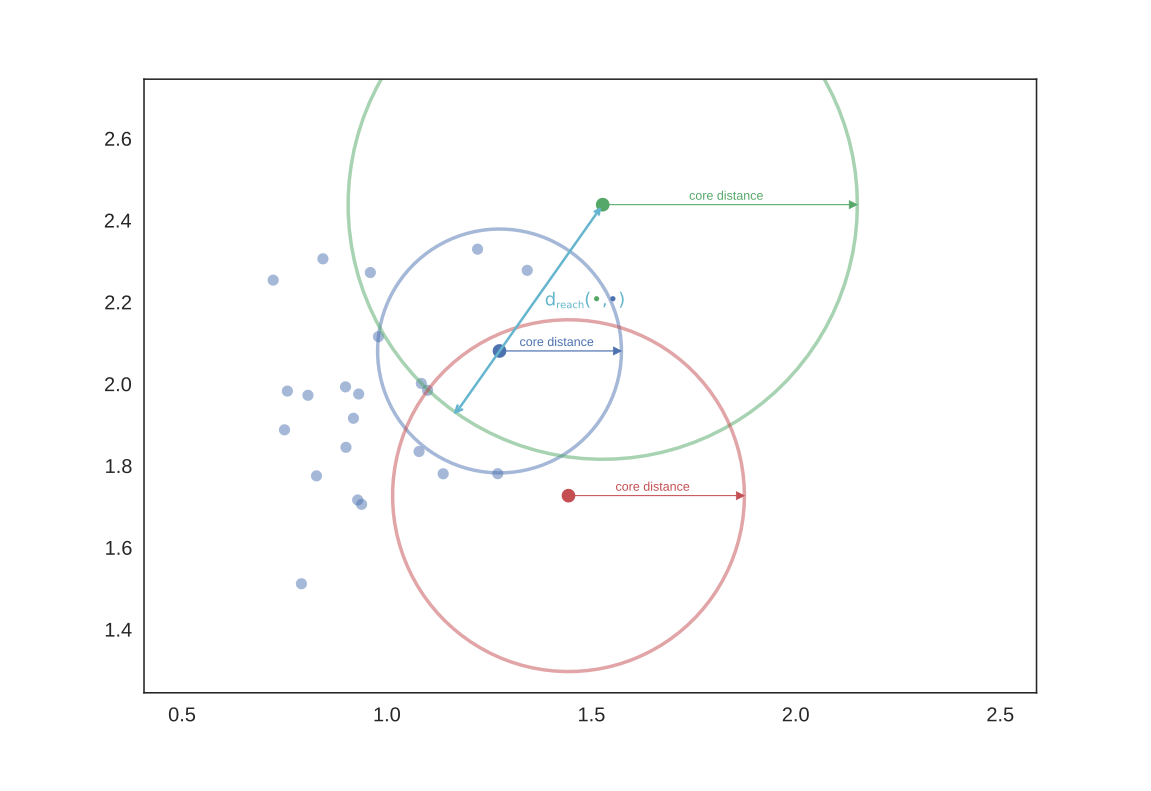
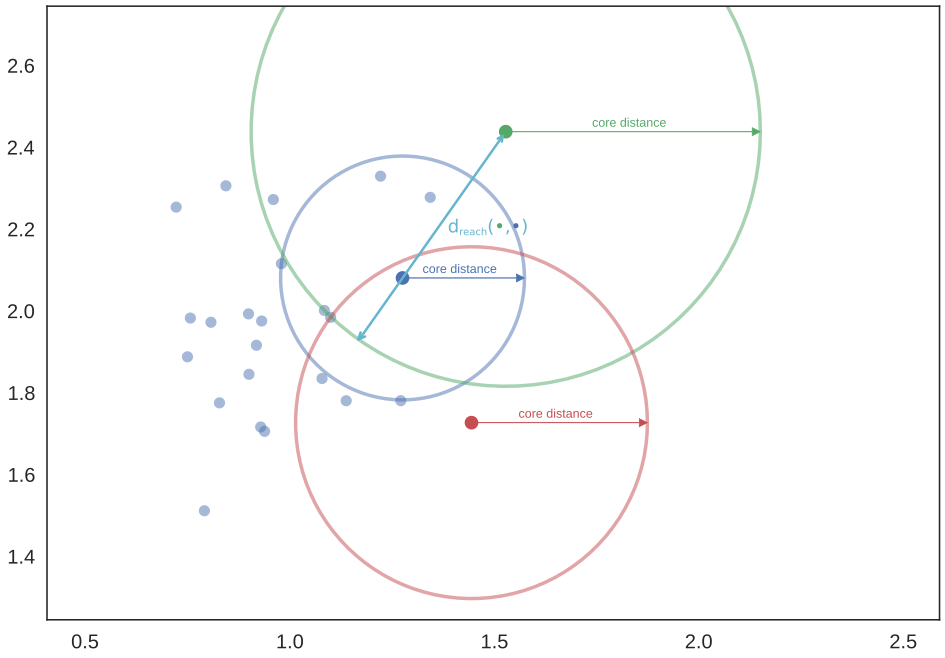
Reprise mise en page

diff --git a/weeks/21-05_28-05.tex b/weeks/21-05_28-05.tex
@@ -35,13 +35,13 @@
     \begin{block}{Principe}
         \begin{itemize}
             \item Méthode de référence de la classification à densité (détection de clusters en se basant sur la concentration de points);
-            \item Se base sur deux paramètres : $\epsilon$ et $n_{min}$ qui caractérisent respectivement la distance maximale pour que deux points soient considérés "proches" et la quantité minimale de points proches pour qu'un cluster soit créé.
+            \item Se base sur deux paramètres : $\varepsilon$ et $n_{min}$ qui caractérisent respectivement la distance maximale pour que deux points soient considérés \og proches \fg{} et la quantité minimale de points proches pour qu'un cluster soit créé.
         \end{itemize}
     \end{block}
 
     \begin{block}{Inconvénients}
         \begin{itemize}
-            \item Le choix du paramètre $\epsilon$ est hasardeux;
+            \item Le choix du paramètre $\varepsilon$ est hasardeux;
             \item Ne se comporte pas bien avec des jeux de données avec des clusters de densité variable (certains clusters avec des points plus rapprochés que d'autres);
             \item Réagit mal au bruit;
             \item Est binaire : un point appartient ou n'appartient pas à un cluster, pas d'entre deux.
@@ -51,32 +51,42 @@
 
 \begin{frame}{Changement de métrique}
     Une façon d'améliorer le problème de mauvaise prise en compte du bruit est de changer de métrique :
-    \begin{block}{core distance}
-        La core distance d'un point du jeu de donnée est la distance entre ce point et son kième plus proche point. (k à fixer)
-    \end{block}
+    
 
-    \begin{block}{Nouvelle métrique}
-        La distance entre deux points $x$ et $y$ d'un jeu de donnée peut être définie comme la plus grande valeur entre les core distances de x et y et la distance eucliedienne entre x et y.
-    \end{block}
+    
 
-    \begin{figure}
-        \includegraphics[width=0.5\paperheight]{images/metrique.png}
-        \caption{\label{fig:metrique}Nouvelle métrique}
-    \end{figure}
+
+    \begin{columns}
+        \begin{column}{0.55\textwidth}
+            \begin{block}{\emph{Core distance}}
+                La \emph{core distance} d'un point du jeu de donnée est la distance entre ce point et son $k$-ième plus proche point ($k$ à fixer).
+            \end{block}
+        
+            \begin{block}{Nouvelle métrique}
+                La distance entre deux points $x$ et $y$ d'un jeu de donnée peut être définie comme la plus grande valeur entre les core distances de $x$ et $y$ et la distance eucliedienne entre $x$ et $y$.
+            \end{block}
+        \end{column}
+        \begin{column}{0.4\textwidth}
+            \begin{figure}
+                \includegraphics[width=0.6\paperheight]{images/metrique.png}
+                \caption{\label{fig:metrique}Nouvelle métrique}
+            \end{figure}
+        \end{column}
+    \end{columns}
 \end{frame}
 
 \begin{frame}{HDBScan (1/2)}
     \begin{block}{Principe général}
-        Consiste à fusionner les méthodes de classification hierarchique adscendante et DBScan pour permettre de s'affranchir du paramètre $\epsilon$.
+        Consiste à fusionner les méthodes de classification hierarchique adscendante et DBScan pour permettre de s'affranchir du paramètre $\varepsilon$.
     \end{block}
 
     \begin{block}{Étapes}
         \begin{itemize}
             \item Représenter les données par un graphe complet où chaque point est un sommet, puis valuer les arêtes par la métrique expliquée précédemment;
             \item Trouver un arbre couvrant de poids minimum dans ce graphe;
-            \item Regarder quelles sont les composantes connexes du graphe en ne gardant que les arêtes dont le poids est inférieur à un certain seuil $\epsilon$ que l'on augmente progressivement;
-            \item On obtient alors un dendrogramme (on obient une partition pour chaque $\epsilon$ fixé);
-            \item On observe la persistance des classes de ce dendrogramme en fonction de la variation de $\epsilon$;
+            \item Regarder quelles sont les composantes connexes du graphe en ne gardant que les arêtes dont le poids est inférieur à un certain seuil $\varepsilon$ que l'on augmente progressivement;
+            \item On obtient alors un dendrogramme (on obient une partition pour chaque $\varepsilon$ fixé);
+            \item On observe la persistance des classes de ce dendrogramme en fonction de la variation de $\varepsilon$.
         \end{itemize}
     \end{block}
 
@@ -98,24 +108,25 @@
     \end{block}
 \end{frame}
 
-\begin{frame}{sklearn.cluster.HDBSCAN}
-    \begin{itemize}
-        \item min\_cluster\_size=5 : groupings smaller than this size will be left as noise.
-        \item min\_samples=None : The number of samples in a neighborhood for a point to be considered as a core point.
-        \item cluster\_selection\_epsilon=0.0 : Clusters below this value will be merged.
-        \item max\_cluster\_size=None
-        \item metric='euclidean'
-        \item metric\_params=None
-        \item alpha=1.0 : A distance scaling parameter
-        \item algorithm='auto' : Exactly which algorithm to use for computing core distances
-        \item leaf\_size=40 : Leaf size for trees responsible for fast nearest neighbour queries when a KDTree or a BallTree are used as core-distance algorithms.
-        \item n\_jobs=None : Number of jobs to run in parallel to calculate distances.
-        \item cluster\_selection\_method='eom' : The method used to select clusters from the condensed tree.
-        \item allow\_single\_cluster=False : allow the result to be a single cluster
-        \item store\_centers=None
-        \item copy=False
-
-    \end{itemize}
+\begin{frame}{Paramètres de sklearn.cluster.HDBSCAN}
+    % \begin{block}{}
+        \begin{itemize}
+            \item \texttt{min\_cluster\_size=5} : groupings smaller than this size will be left as noise;
+            \item \texttt{min\_samples=None} : The number of samples in a neighborhood for a point to be considered as a core point;
+            \item \texttt{cluster\_selection\_epsilon=0.0} : Clusters below this value will be merged;
+            \item \texttt{max\_cluster\_size=None};
+            \item \texttt{metric='euclidean'};
+            \item \texttt{metric\_params=None};
+            \item \texttt{alpha=1.0} : A distance scaling parameter;
+            \item \texttt{algorithm='auto'} : Exactly which algorithm to use for computing core distances;
+            \item \texttt{leaf\_size=40} : Leaf size for trees responsible for fast nearest neighbour queries when a KDTree or a BallTree are used as core-distance algorithms;
+            \item \texttt{n\_jobs=None} : Number of jobs to run in parallel to calculate distances;
+            \item \texttt{cluster\_selection\_method='eom'} : The method used to select clusters from the condensed tree;
+            \item \texttt{allow\_single\_cluster=False} : allow the result to be a single cluster;
+            \item \texttt{store\_centers=None};
+            \item \texttt{copy=False}.
+        \end{itemize}
+    % \end{block}
 \end{frame}
 
 \begin{frame}{Résultats}
